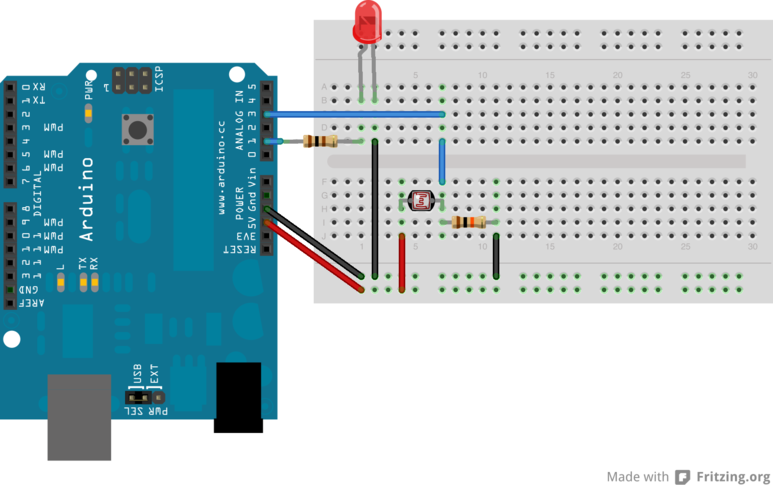
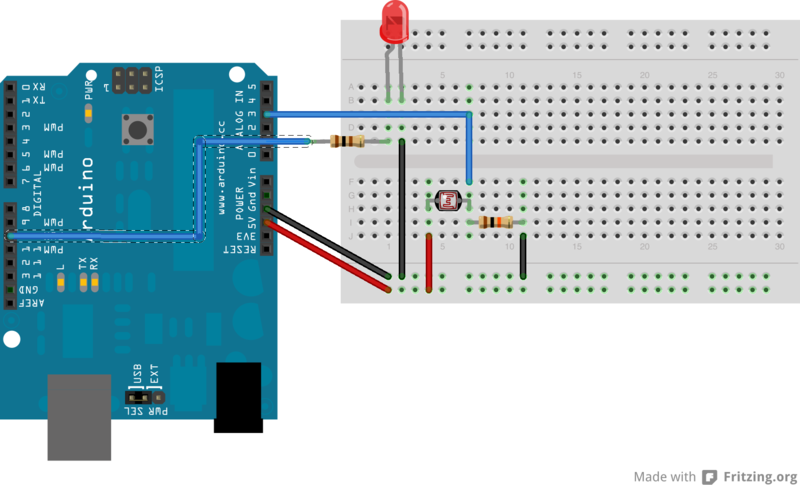
Update Beispielprogramm Lichtsensor

diff --git a/BeispielProgramme/Lichtsensor/Lichtsensor.md b/BeispielProgramme/Lichtsensor/Lichtsensor.md
@@ -1,7 +1,7 @@
 Beispiel Lichtsensor
 ======================
 
-Wie im [LED-Beispiel](../LED/LED.md), schliessen wir einen 100 Ohm Widerstand zwischen einem analogen Pin des Arduino (hier: A1) und dem langen Bein einer LED. 
+Wir schliessen einen 100 Ohm Widerstand zwischen einem digitalen Pin des Arduino (hier: 10) und dem langen Bein einer LED. 
 Das kurze Bein der LED verbinden wir mit Masse (GND). 
 Zusätzlich verbinden wir einen Pin (Orientierung egal) des Photowiderstandes (photocell) mit 5V, den anderen Pin sowohl mit A3 als auch über einem 10k Widerstand mit Masse (GND) 
 
@@ -12,11 +12,11 @@ Der Beispielcode findet sich in der Datei [Lichtsensor.ino](Lichtsensor.ino).
 ```c++
 /*
   Regle die Helligkeit einer LED mit einem Lichtsensor.
-  Je dunkler der Lichtsensor, desto heller die LED.
-*/
+ Je dunkler der Lichtsensor, desto heller die LED.
+ */
 
 // die LED ist an diesen Pin angeschlossen
-int led = A1;
+int led = 10;
 
 // der Lichtsensor ist an diesen Pin angeschlossen
 int lichtsensor = A3;
@@ -33,11 +33,11 @@ void loop() {
   // Lese die Helligkeit vom Lichtsensor ein
   byte Helligkeit = analogRead(lichtsensor);
 
-  // Stelle sicher, dass der Wert zwischen 0 und 255 liegt
-  Helligkeit = map(Helligkeit, 0, 1024, 0, 255);
+  // Kehre den Wert des Sensors um
+  Helligkeit = map(Helligkeit, 0, 255, 255, 0);
 
-  digitalWrite(led, Helligkeit);
-  delay(100);
+  analogWrite(led, Helligkeit);
+  delay(10);
 }
 ```
 

diff --git a/README.md b/README.md
@@ -54,7 +54,7 @@ Beispielprogramme
 * [LED Test](./BeispielProgramme/LED/LED.md)
 * [blinkende LED](./BeispielProgramme/LED_blink/LED_blink.md)
 * [Lichtsensor](./BeispielProgramme/Lichtsensor/Lichtsensor.md)
-* Beeper/Buzzer 
+* [Buzzer](./BeispielProgramme/Buzzer/Buzzer.md)
 * Potentiometer
 * Vibration Switch Sensor 
 
